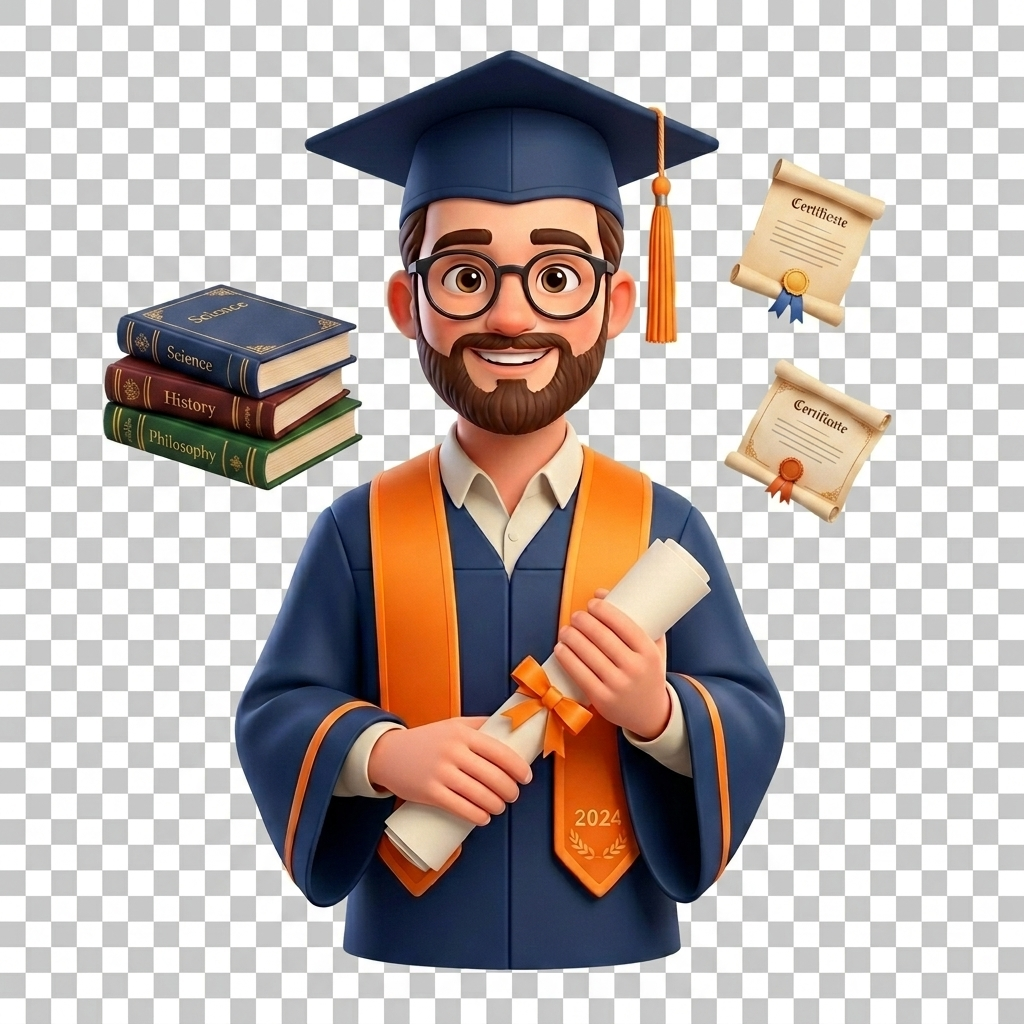
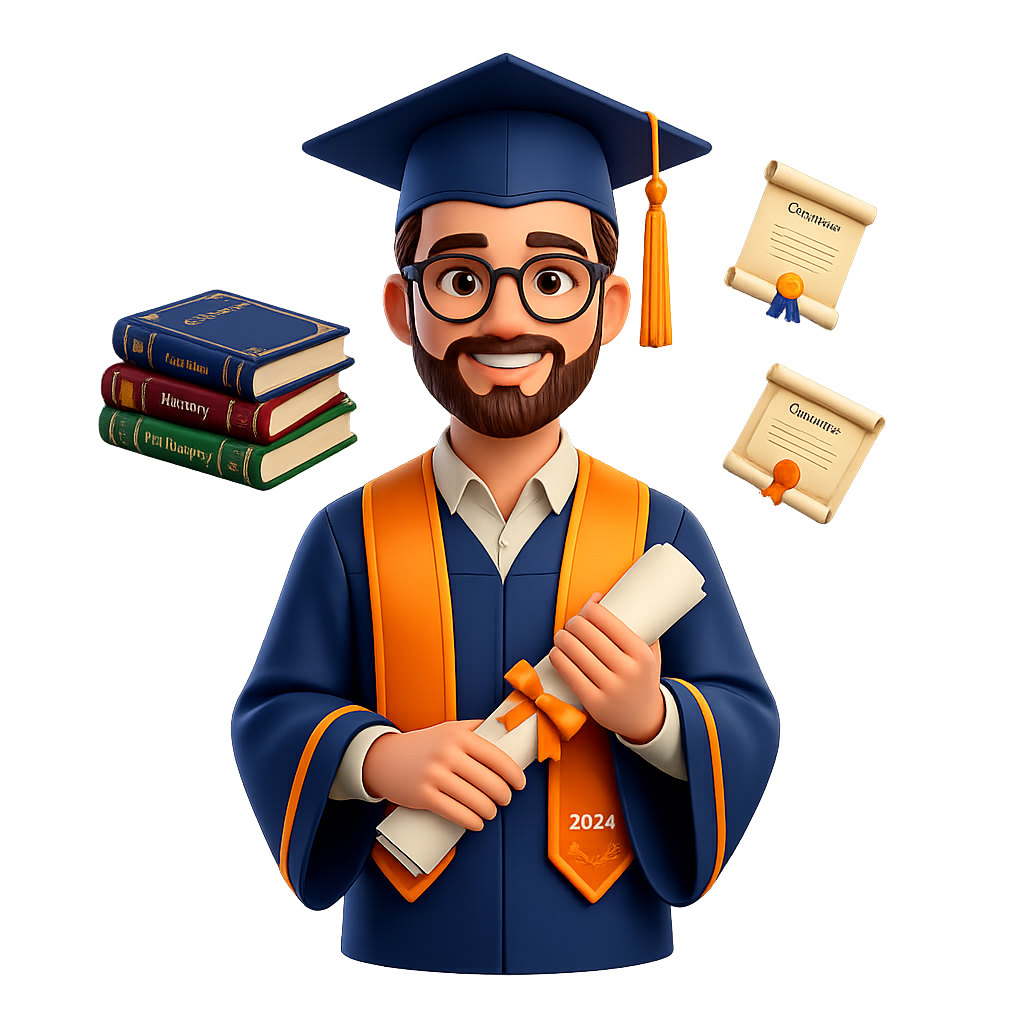
Add education section graduation artwork

diff --git a/src/components/Experience.tsx b/src/components/Experience.tsx
@@ -397,8 +397,8 @@ export default function Experience({ darkMode }: ExperienceProps) {
                   <AnimatePresence mode="wait">
                     <motion.img
                       key={activeTab}
-                      src="./assets/avatar_experience.png"
-                      alt="3D illustration of career timeline"
+                      src={activeTab === "education" ? "./assets/avatar_education.png" : "./assets/avatar_experience.png"}
+                      alt={activeTab === "education" ? "3D illustration of graduation and education" : "3D illustration of career timeline"}
                       className="w-full h-auto object-contain drop-shadow-[0_15px_30px_rgba(255,138,0,0.15)] hover:scale-105 transition-transform duration-550 relative z-10"
                       referrerPolicy="no-referrer"
                       initial={{ opacity: 0, scale: 0.9, rotateY: 15 }}
